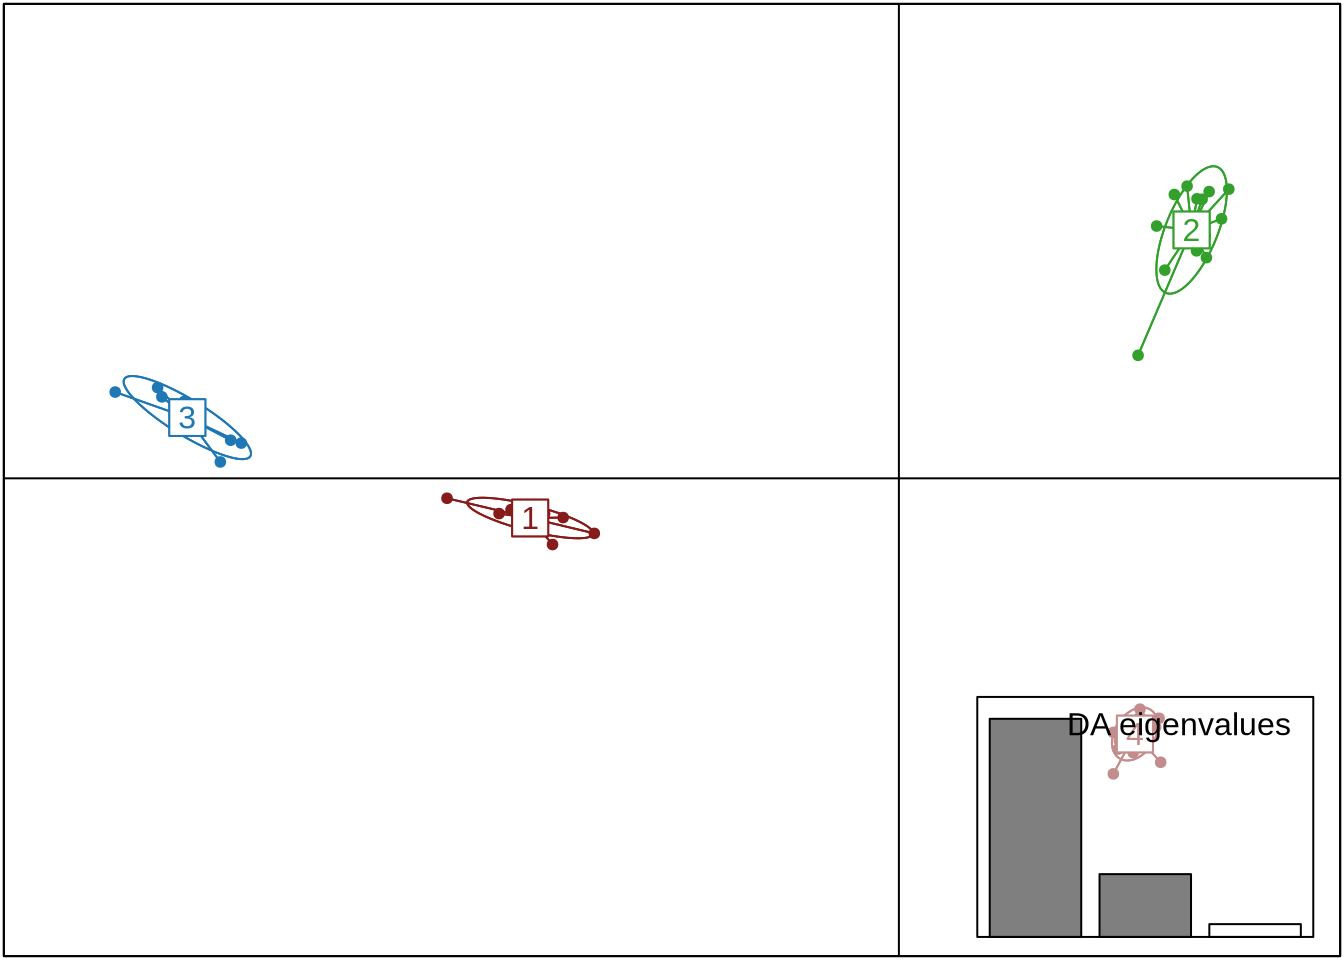
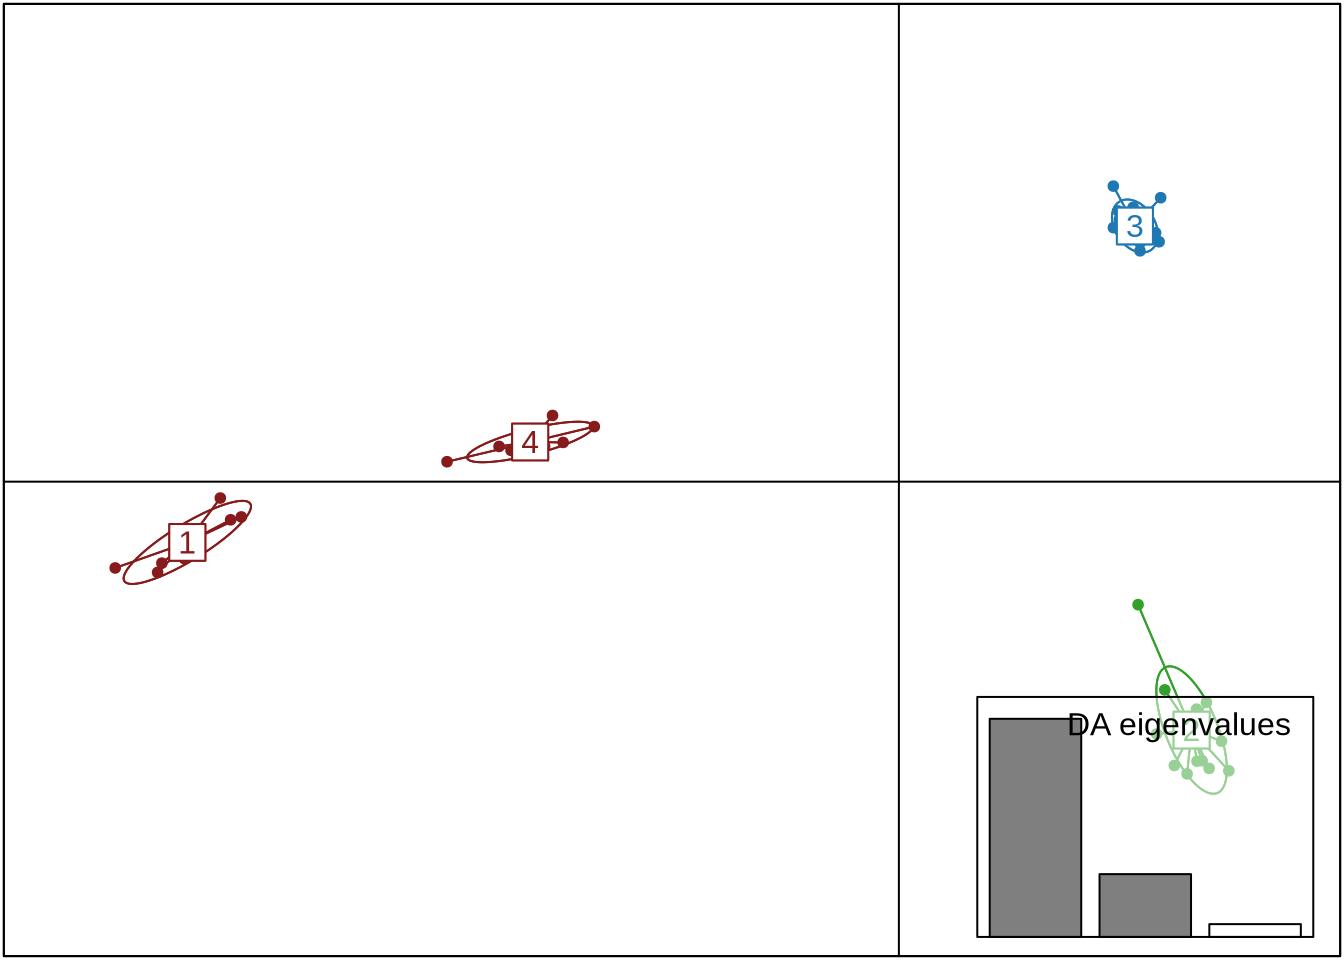
Built site for gh-pages

diff --git a/content/PCA.html b/content/PCA.html
@@ -197,11 +197,14 @@ pre > code.sourceCode > span > a:first-child::before { text-decoration: underlin
   <li><a href="#examine-the-pcs" id="toc-examine-the-pcs" class="nav-link" data-scroll-target="#examine-the-pcs">Examine the PCs</a></li>
   <li><a href="#dealing-with-linkage-using-ld-clumping" id="toc-dealing-with-linkage-using-ld-clumping" class="nav-link" data-scroll-target="#dealing-with-linkage-using-ld-clumping">Dealing with linkage using LD clumping</a></li>
   <li><a href="#filter-data-for-pca-and-dapc" id="toc-filter-data-for-pca-and-dapc" class="nav-link" data-scroll-target="#filter-data-for-pca-and-dapc">Filter data for PCA and DAPC</a></li>
+  </ul></li>
+  <li><a href="#dapc" id="toc-dapc" class="nav-link" data-scroll-target="#dapc">DAPC</a>
+  <ul class="collapse">
   <li><a href="#dapc-with-inferred-groups" id="toc-dapc-with-inferred-groups" class="nav-link" data-scroll-target="#dapc-with-inferred-groups">DAPC with inferred groups</a>
   <ul class="collapse">
   <li><a href="#finding-clusters" id="toc-finding-clusters" class="nav-link" data-scroll-target="#finding-clusters">Finding clusters</a></li>
-  </ul></li>
   <li><a href="#discriminant-analysis" id="toc-discriminant-analysis" class="nav-link" data-scroll-target="#discriminant-analysis">Discriminant Analysis</a></li>
+  </ul></li>
   <li><a href="#dapc-with-original-populations" id="toc-dapc-with-original-populations" class="nav-link" data-scroll-target="#dapc-with-original-populations">DAPC with original populations</a></li>
   </ul></li>
   </ul>
@@ -251,7 +254,7 @@ of ggplot2 3.3.4.
   Please report the issue at &lt;https://github.com/bcm-uga/pcadapt/issues&gt;.</code></pre>
 </div>
 <div class="cell-output-display">
-<p><img src="PCA_files/figure-html/unnamed-chunk-2-1.svg" class="img-fluid" width="672"></p>
+<p><img src="PCA_files/figure-html/unnamed-chunk-2-1.png" class="img-fluid" width="672"></p>
 </div>
 </div>
 <p>For this analysis, the idea number of PCs is the one before the variance stars plateauing. Essentially, we’re looking for the “elbow.” Here, this would be 2.</p>
@@ -262,7 +265,7 @@ of ggplot2 3.3.4.
 <span id="cb4-3"><a href="#cb4-3" aria-hidden="true" tabindex="-1"></a></span>
 <span id="cb4-4"><a href="#cb4-4" aria-hidden="true" tabindex="-1"></a><span class="fu">plot</span>(res, <span class="at">option =</span> <span class="st">"scores"</span>, <span class="at">pop =</span> poplist.names)</span></code><button title="Copy to Clipboard" class="code-copy-button"><i class="bi"></i></button></pre></div>
 <div class="cell-output-display">
-<p><img src="PCA_files/figure-html/unnamed-chunk-3-1.svg" class="img-fluid" width="672"></p>
+<p><img src="PCA_files/figure-html/unnamed-chunk-3-1.png" class="img-fluid" width="672"></p>
 </div>
 </div>
 <p>This might look normal, but you’ll notice that two of the populations are tightly grouped around PC1. We should check too make sure this pattern isn’t being driven by a linkage in the genome. To do this, we can look at the loading scores of the PCs. Loading scores show how much a particular SNP factors into a PC.</p>
@@ -271,14 +274,14 @@ of ggplot2 3.3.4.
 <span id="cb5-2"><a href="#cb5-2" aria-hidden="true" tabindex="-1"></a><span class="cf">for</span> (i <span class="cf">in</span> <span class="dv">1</span><span class="sc">:</span><span class="dv">4</span>)</span>
 <span id="cb5-3"><a href="#cb5-3" aria-hidden="true" tabindex="-1"></a>  <span class="fu">plot</span>(res<span class="sc">$</span>loadings[, i], <span class="at">pch =</span> <span class="dv">19</span>, <span class="at">cex =</span> .<span class="dv">3</span>, <span class="at">ylab =</span> <span class="fu">paste0</span>(<span class="st">"Loadings PC"</span>, i))</span></code><button title="Copy to Clipboard" class="code-copy-button"><i class="bi"></i></button></pre></div>
 <div class="cell-output-display">
-<p><img src="PCA_files/figure-html/unnamed-chunk-4-1.svg" class="img-fluid" width="672"></p>
+<p><img src="PCA_files/figure-html/unnamed-chunk-4-1.png" class="img-fluid" width="672"></p>
 </div>
 </div>
 <p>These values should be evenly distributed across the genome. You’ll notice that PC1 has a bit of a pattern to it. Let’s zoom in.</p>
 <div class="cell">
 <div class="sourceCode cell-code" id="cb6"><pre class="sourceCode r code-with-copy"><code class="sourceCode r"><span id="cb6-1"><a href="#cb6-1" aria-hidden="true" tabindex="-1"></a><span class="fu">plot</span>(res<span class="sc">$</span>loadings[, <span class="dv">1</span>], <span class="at">pch =</span> <span class="dv">19</span>, <span class="at">cex =</span> .<span class="dv">3</span>, <span class="at">ylab =</span> <span class="fu">paste0</span>(<span class="st">"Loadings PC"</span>, i))</span></code><button title="Copy to Clipboard" class="code-copy-button"><i class="bi"></i></button></pre></div>
 <div class="cell-output-display">
-<p><img src="PCA_files/figure-html/unnamed-chunk-5-1.svg" class="img-fluid" width="672"></p>
+<p><img src="PCA_files/figure-html/unnamed-chunk-5-1.png" class="img-fluid" width="672"></p>
 </div>
 </div>
 <p>Now, you can definitely see a weird pattern between Index 30,000 and 40,000. This is from several large genomic inversion in the oyster genome. All of those SNPs are highly linked and are driving a large porition of our PCA.</p>
@@ -291,7 +294,7 @@ of ggplot2 3.3.4.
 <div class="sourceCode cell-code" id="cb7"><pre class="sourceCode r code-with-copy"><code class="sourceCode r"><span id="cb7-1"><a href="#cb7-1" aria-hidden="true" tabindex="-1"></a>res <span class="ot">&lt;-</span> <span class="fu">pcadapt</span>(filename, <span class="at">K =</span> <span class="dv">10</span>, <span class="at">LD.clumping =</span> <span class="fu">list</span>(<span class="at">size =</span> <span class="dv">500</span>, <span class="at">thr =</span> <span class="fl">0.2</span>))</span>
 <span id="cb7-2"><a href="#cb7-2" aria-hidden="true" tabindex="-1"></a><span class="fu">plot</span>(res, <span class="at">option =</span> <span class="st">"screeplot"</span>)</span></code><button title="Copy to Clipboard" class="code-copy-button"><i class="bi"></i></button></pre></div>
 <div class="cell-output-display">
-<p><img src="PCA_files/figure-html/unnamed-chunk-6-1.svg" class="img-fluid" width="672"></p>
+<p><img src="PCA_files/figure-html/unnamed-chunk-6-1.png" class="img-fluid" width="672"></p>
 </div>
 </div>
 <p>This changed a bit, and we now have possibly 4 informative PCs. Let’s take a look at the loadings:</p>
@@ -301,14 +304,14 @@ of ggplot2 3.3.4.
 <span id="cb8-3"><a href="#cb8-3" aria-hidden="true" tabindex="-1"></a><span class="cf">for</span> (i <span class="cf">in</span> <span class="dv">1</span><span class="sc">:</span><span class="dv">4</span>)</span>
 <span id="cb8-4"><a href="#cb8-4" aria-hidden="true" tabindex="-1"></a>  <span class="fu">plot</span>(res<span class="sc">$</span>loadings[, i], <span class="at">pch =</span> <span class="dv">19</span>, <span class="at">cex =</span> .<span class="dv">3</span>, <span class="at">ylab =</span> <span class="fu">paste0</span>(<span class="st">"Loadings PC"</span>, i))</span></code><button title="Copy to Clipboard" class="code-copy-button"><i class="bi"></i></button></pre></div>
 <div class="cell-output-display">
-<p><img src="PCA_files/figure-html/unnamed-chunk-7-1.svg" class="img-fluid" width="672"></p>
+<p><img src="PCA_files/figure-html/unnamed-chunk-7-1.png" class="img-fluid" width="672"></p>
 </div>
 </div>
 <p>Great! Now, we no longer see strong patterns in the loading scores. We can proceed.</p>
 <div class="cell">
 <div class="sourceCode cell-code" id="cb9"><pre class="sourceCode r code-with-copy"><code class="sourceCode r"><span id="cb9-1"><a href="#cb9-1" aria-hidden="true" tabindex="-1"></a><span class="fu">plot</span>(res, <span class="at">option =</span> <span class="st">"scores"</span>, <span class="at">pop =</span> poplist.names)</span></code><button title="Copy to Clipboard" class="code-copy-button"><i class="bi"></i></button></pre></div>
 <div class="cell-output-display">
-<p><img src="PCA_files/figure-html/unnamed-chunk-8-1.svg" class="img-fluid" width="672"></p>
+<p><img src="PCA_files/figure-html/unnamed-chunk-8-1.png" class="img-fluid" width="672"></p>
 </div>
 </div>
 <p>Now, we can see there is much more separation in PopA vs PopB than there was before.</p>
@@ -445,7 +448,7 @@ All variants processed</code></pre>
 <span id="cb20-2"><a href="#cb20-2" aria-hidden="true" tabindex="-1"></a><span class="fu">title</span>(<span class="at">ylab=</span><span class="st">"Percent of variance</span><span class="sc">\n</span><span class="st">explained"</span>, <span class="at">line =</span> <span class="dv">2</span>)</span>
 <span id="cb20-3"><a href="#cb20-3" aria-hidden="true" tabindex="-1"></a><span class="fu">title</span>(<span class="at">xlab=</span><span class="st">"PC"</span>, <span class="at">line =</span> <span class="dv">1</span>)</span></code><button title="Copy to Clipboard" class="code-copy-button"><i class="bi"></i></button></pre></div>
 <div class="cell-output-display">
-<p><img src="PCA_files/figure-html/unnamed-chunk-13-1.svg" class="img-fluid" width="672"></p>
+<p><img src="PCA_files/figure-html/unnamed-chunk-13-1.png" class="img-fluid" width="672"></p>
 </div>
 </div>
 <p>We basically have three informative PCs here. Let’s plot the individuals on the first two PCs:</p>
@@ -454,7 +457,7 @@ All variants processed</code></pre>
 <span id="cb21-2"><a href="#cb21-2" aria-hidden="true" tabindex="-1"></a><span class="fu">abline</span>(<span class="at">h=</span><span class="dv">0</span>,<span class="at">v=</span><span class="dv">0</span>, <span class="at">col=</span><span class="st">"grey"</span>)</span>
 <span id="cb21-3"><a href="#cb21-3" aria-hidden="true" tabindex="-1"></a><span class="fu">add.scatter.eig</span>(oyster.pca<span class="sc">$</span>eig[<span class="dv">1</span><span class="sc">:</span><span class="dv">10</span>],<span class="dv">2</span>,<span class="dv">1</span>,<span class="dv">2</span>, <span class="at">posi=</span><span class="st">"bottomright"</span>, <span class="at">ratio=</span>.<span class="dv">16</span>)</span></code><button title="Copy to Clipboard" class="code-copy-button"><i class="bi"></i></button></pre></div>
 <div class="cell-output-display">
-<p><img src="PCA_files/figure-html/unnamed-chunk-14-1.svg" class="img-fluid" width="672"></p>
+<p><img src="PCA_files/figure-html/unnamed-chunk-14-1.png" class="img-fluid" width="672"></p>
 </div>
 </div>
 <p>The plot above is combining information from the first 3 PCs to color dots, and using the first two for x,y coordinates. We can see possibly four groups across all PCs.</p>
@@ -479,13 +482,15 @@ All variants processed</code></pre>
 <span id="cb24-5"><a href="#cb24-5" aria-hidden="true" tabindex="-1"></a></span>
 <span id="cb24-6"><a href="#cb24-6" aria-hidden="true" tabindex="-1"></a>p</span></code><button title="Copy to Clipboard" class="code-copy-button"><i class="bi"></i></button></pre></div>
 <div class="cell-output-display">
-<p><img src="PCA_files/figure-html/unnamed-chunk-15-1.svg" class="img-fluid" width="672"></p>
+<p><img src="PCA_files/figure-html/unnamed-chunk-15-1.png" class="img-fluid" width="672"></p>
 </div>
 </div>
 <p>So, we can see that we have some subtle structuring within PopC.</p>
-<p>#DAPC</p>
-<p>Discriminant analysis of Principal Components (DAPC), allows us to either infer groups or put in groups <em>a priori</em>. DAPC seeks to maximize between group variance while minimizing within group variance. I’ll show you how this works both ways below.</p>
 </section>
+</section>
+<section id="dapc" class="level1">
+<h1>DAPC</h1>
+<p>Discriminant analysis of Principal Components (DAPC), allows us to either infer groups or put in groups <em>a priori</em>. DAPC seeks to maximize between group variance while minimizing within group variance. I’ll show you how this works both ways below.</p>
 <section id="dapc-with-inferred-groups" class="level2">
 <h2 class="anchored" data-anchor-id="dapc-with-inferred-groups">DAPC with inferred groups</h2>
 <section id="finding-clusters" class="level3">
@@ -505,15 +510,14 @@ All variants processed</code></pre>
 <pre><code>      
         1  2  3  4
   PopB  0  0 15  0
-  PopA  0  0  0 15
-  PopC  8  7  0  0</code></pre>
+  PopA  0 15  0  0
+  PopC  7  0  0  8</code></pre>
 </div>
 </div>
 <p>This makes sense given our PCA. Let’s run the DAPC.</p>
 </section>
-</section>
-<section id="discriminant-analysis" class="level2">
-<h2 class="anchored" data-anchor-id="discriminant-analysis">Discriminant Analysis</h2>
+<section id="discriminant-analysis" class="level3">
+<h3 class="anchored" data-anchor-id="discriminant-analysis">Discriminant Analysis</h3>
 <p>This is another interactive function. Run in the console.</p>
 <div class="cell">
 <div class="sourceCode cell-code" id="cb28"><pre class="sourceCode r code-with-copy"><code class="sourceCode r"><span id="cb28-1"><a href="#cb28-1" aria-hidden="true" tabindex="-1"></a>oyster.dapc <span class="ot">&lt;-</span> <span class="fu">dapc</span>(mygl, grp<span class="sc">$</span>grp)</span></code><button title="Copy to Clipboard" class="code-copy-button"><i class="bi"></i></button></pre></div>
@@ -526,14 +530,14 @@ All variants processed</code></pre>
 <div class="cell">
 <div class="sourceCode cell-code" id="cb29"><pre class="sourceCode r code-with-copy"><code class="sourceCode r"><span id="cb29-1"><a href="#cb29-1" aria-hidden="true" tabindex="-1"></a><span class="fu">scatter</span>(oyster.dapc,<span class="at">col=</span>cols,<span class="at">bg=</span><span class="st">"white"</span>, <span class="at">solid=</span><span class="dv">1</span>)</span></code><button title="Copy to Clipboard" class="code-copy-button"><i class="bi"></i></button></pre></div>
 <div class="cell-output-display">
-<p><img src="PCA_files/figure-html/unnamed-chunk-21-1.svg" class="img-fluid" width="672"></p>
+<p><img src="PCA_files/figure-html/unnamed-chunk-21-1.png" class="img-fluid" width="672"></p>
 </div>
 </div>
 <p>We can also plot membership probabilities:</p>
 <div class="cell">
 <div class="sourceCode cell-code" id="cb30"><pre class="sourceCode r code-with-copy"><code class="sourceCode r"><span id="cb30-1"><a href="#cb30-1" aria-hidden="true" tabindex="-1"></a><span class="fu">compoplot</span>(oyster.dapc, <span class="at">posi=</span><span class="st">"bottom"</span>,<span class="at">txt.leg=</span><span class="fu">paste</span>(<span class="st">"Cluster"</span>, <span class="dv">1</span><span class="sc">:</span><span class="dv">4</span>), <span class="at">lab=</span><span class="st">""</span>, <span class="at">ncol=</span><span class="dv">4</span>, <span class="at">xlab=</span><span class="st">"individuals"</span>)</span></code><button title="Copy to Clipboard" class="code-copy-button"><i class="bi"></i></button></pre></div>
 <div class="cell-output-display">
-<p><img src="PCA_files/figure-html/unnamed-chunk-22-1.svg" class="img-fluid" width="672"></p>
+<p><img src="PCA_files/figure-html/unnamed-chunk-22-1.png" class="img-fluid" width="672"></p>
 </div>
 </div>
 <p>We can use ggplot to make this easier to read and put in the populations for each individual:</p>
@@ -555,9 +559,10 @@ All variants processed</code></pre>
 <span id="cb31-15"><a href="#cb31-15" aria-hidden="true" tabindex="-1"></a>p <span class="ot">&lt;-</span> p <span class="sc">+</span> <span class="fu">ylab</span>(<span class="st">"Posterior membership probability"</span>)</span>
 <span id="cb31-16"><a href="#cb31-16" aria-hidden="true" tabindex="-1"></a>p</span></code><button title="Copy to Clipboard" class="code-copy-button"><i class="bi"></i></button></pre></div>
 <div class="cell-output-display">
-<p><img src="PCA_files/figure-html/unnamed-chunk-23-1.svg" class="img-fluid" width="672"></p>
+<p><img src="PCA_files/figure-html/unnamed-chunk-23-1.png" class="img-fluid" width="672"></p>
 </div>
 </div>
+</section>
 </section>
 <section id="dapc-with-original-populations" class="level2">
 <h2 class="anchored" data-anchor-id="dapc-with-original-populations">DAPC with original populations</h2>
@@ -567,7 +572,7 @@ All variants processed</code></pre>
 <span id="cb32-2"><a href="#cb32-2" aria-hidden="true" tabindex="-1"></a><span class="fu">scatter</span>(oyster.dapc, <span class="at">col =</span> cols, <span class="at">cex =</span> <span class="dv">2</span>, <span class="at">legend =</span> <span class="cn">TRUE</span>, <span class="at">clabel =</span> F, <span class="at">posi.leg =</span> <span class="st">"bottomleft"</span>, <span class="at">scree.pca =</span> <span class="cn">TRUE</span>,</span>
 <span id="cb32-3"><a href="#cb32-3" aria-hidden="true" tabindex="-1"></a>        <span class="at">posi.pca =</span> <span class="st">"topleft"</span>, <span class="at">cleg =</span> <span class="fl">0.75</span>, <span class="at">posi.da =</span> <span class="st">"topright"</span>)</span></code><button title="Copy to Clipboard" class="code-copy-button"><i class="bi"></i></button></pre></div>
 <div class="cell-output-display">
-<p><img src="PCA_files/figure-html/unnamed-chunk-24-1.svg" class="img-fluid" width="672"></p>
+<p><img src="PCA_files/figure-html/unnamed-chunk-24-1.png" class="img-fluid" width="672"></p>
 </div>
 </div>
 <p>Let’s make this better with ggplot</p>
@@ -585,7 +590,7 @@ All variants processed</code></pre>
 <span id="cb33-11"><a href="#cb33-11" aria-hidden="true" tabindex="-1"></a></span>
 <span id="cb33-12"><a href="#cb33-12" aria-hidden="true" tabindex="-1"></a>p</span></code><button title="Copy to Clipboard" class="code-copy-button"><i class="bi"></i></button></pre></div>
 <div class="cell-output-display">
-<p><img src="PCA_files/figure-html/unnamed-chunk-25-1.svg" class="img-fluid" width="672"></p>
+<p><img src="PCA_files/figure-html/unnamed-chunk-25-1.png" class="img-fluid" width="672"></p>
 </div>
 </div>
 
